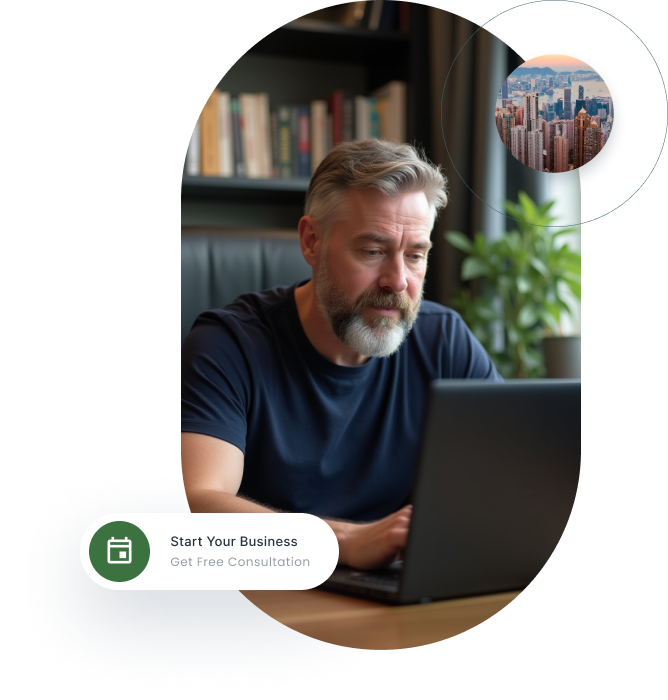
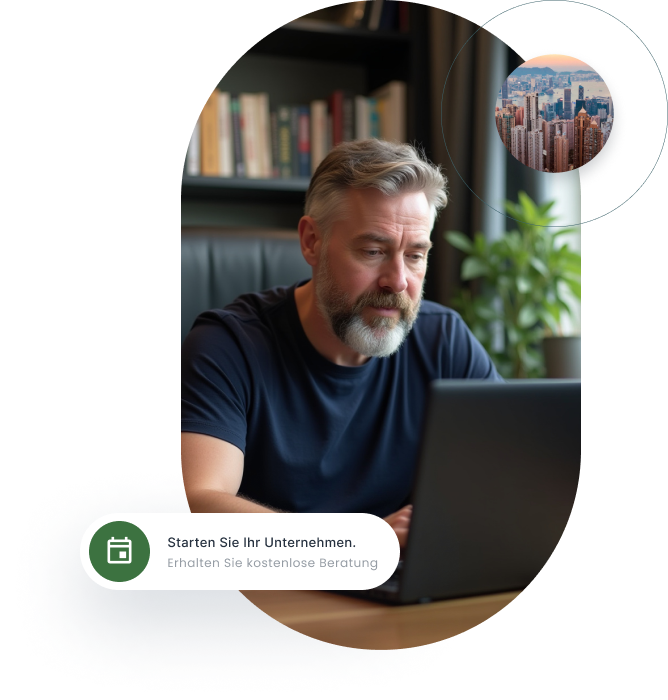
updated version

Changed region(s): [[0.2395, 0.72, 0.5988, 0.84]]

diff --git a/index.html b/index.html
@@ -5,6 +5,7 @@
     <meta charset="UTF-8">
     <meta name="viewport" content="width=device-width, initial-scale=1.0">
     <title>Start Your Business in the EU</title>
+    <link rel="icon" type="image/png" sizes="32x32" href="./images/favicon.png">
     <link rel="stylesheet" href="style.css">
 </head>
 
@@ -16,7 +17,7 @@
         <div class="header__logos">
             <img src="./images/logo-1.png" alt="Logo 1">
             <span>In collaboration with</span>
-            <img src="./images/logo-2.png" alt="Logo 2">
+            <img src="./images/st-publius.png" alt="Logo 2">
         </div>
     </header>
     <div class="hero-inner-detail container">
@@ -24,7 +25,7 @@
             <h1>Starten Sie Ihr <span class="light-text">Geschäft</span> in der EU <span class="primary-text">sofort</span></h1>
             <div class="booking-box">
                 <p>Wir bieten Ihnen sofort einsatzbereite irische Limiteds (Ltd.) – schnell, unkompliziert und rechtssicher!</p>
-                <button class="btn">Buchen Sie jetzt eine kostenlose Beratung</button>
+                <a class="btn" href="http://stpublius.info/7Z5K/">Buchen Sie jetzt eine kostenlose Beratung</a>
             </div>
             <div class="decoration"></div>
         </div>
@@ -140,7 +141,7 @@
                     <p class="price">225 €</p>
                     <small>monatlich</small>
                 </div>
-                <button class="btn">Kostenlose Beratung erhalten</button>
+                <a class="btn" href="http://stpublius.info/7Z5K/">Kostenlose Beratung erhalten</a>
             </div>
             <div class="right-content">
                 <p class="des-title">Greifen Sie auf diese Funktionen zu, wenn Sie dieses Preispaket für Ihr Unternehmen erhalten.</p>
@@ -191,7 +192,38 @@
     <div class="benefits__list container">
         <div class="divider__text">
             <h2>Maximale Steuervorteile – legal & effizient</h2>
-            <p>Irland: nur 12,5 % Unternehmenssteuer – mit Strategie unter 5 % möglich!</p>
+            <div class="inline-flex">
+                <svg width="60" height="60" viewBox="0 0 23 23" fill="none" xmlns="http://www.w3.org/2000/svg">
+                    <g clip-path="url(#clip0_146_860)">
+                    <path d="M19.4062 16.8547C19.4062 21.2031 15.8844 21.2031 11.5 21.2031C7.11563 21.2031 3.59375 21.2031 3.59375 16.8547C3.59375 12.5063 7.15156 5.39062 11.5 5.39062C15.8484 5.39062 19.4062 12.4703 19.4062 16.8547Z" fill="#DBB471"/>
+                    <path opacity="0.5" d="M19.4061 16.8547C19.4061 15.3813 19.0107 13.5844 18.292 11.8594C18.4357 12.9734 18.1482 14.95 14.7342 15.7047C9.88262 16.7469 12.3982 18.1125 10.4936 18.2922C8.87637 18.4359 4.56387 17.7891 3.70137 15.3453C3.62949 15.8844 3.55762 16.3875 3.55762 16.8906C3.59355 21.2031 7.15137 21.2031 11.4998 21.2031C15.8482 21.2031 19.4061 21.2031 19.4061 16.8547Z" fill="#89664C"/>
+                    <path d="M13.6202 14.7703C13.4764 14.0516 12.8655 13.836 12.2186 13.8V12.7938C12.3983 12.8656 12.6139 12.9735 12.7577 13.0813C13.0452 13.261 13.3327 12.7938 13.0452 12.6141C12.7936 12.4703 12.5061 12.3266 12.2186 12.2188V11.0328C12.2186 10.6735 11.6796 10.6735 11.6796 11.0328V12.075C11.3921 12.0391 11.1046 12.0391 10.8171 12.075C10.7811 11.8235 10.7092 11.5719 10.6374 11.3203C10.5655 10.961 10.0264 11.1047 10.1342 11.4641C10.2061 11.7156 10.2421 11.9672 10.3139 12.2188C10.278 12.2188 10.278 12.2188 10.2421 12.2547C9.52331 12.5422 9.05612 13.261 9.59518 13.9438C9.84675 14.2672 10.1702 14.375 10.5296 14.4469C10.5655 14.9141 10.5655 15.3813 10.5655 15.8485C10.3139 15.7047 10.0983 15.4891 9.91862 15.3094C9.66706 15.0578 9.30768 15.4531 9.52331 15.7047C9.84675 16.0641 10.2061 16.3156 10.5655 16.4953C10.5655 16.8906 10.6014 17.286 10.6374 17.6813C10.6733 18.0406 11.2124 18.0406 11.1764 17.6813C11.1405 17.3219 11.1046 16.9985 11.1046 16.6391C11.3202 16.675 11.5358 16.675 11.7514 16.675C11.7874 17.0344 11.8233 17.3938 11.8592 17.7891C11.8952 18.1485 12.4342 18.1485 12.3983 17.7891C12.3624 17.3938 12.3264 16.9985 12.2905 16.5672C13.0811 16.2797 13.7999 15.6688 13.6202 14.7703ZM11.6796 12.6141V13.8C11.4999 13.8 11.3561 13.836 11.2124 13.836H11.0327L10.9249 12.5422C11.1764 12.5422 11.428 12.5781 11.6796 12.6141ZM10.3858 13.7641C10.2421 13.7281 10.0983 13.6203 9.95456 13.5125C9.63112 13.1891 10.0983 12.9016 10.3858 12.7578C10.4217 13.1172 10.4577 13.4406 10.4936 13.8C10.4577 13.8 10.4217 13.8 10.3858 13.7641ZM11.5717 16.0641C11.3921 16.1 11.2483 16.0641 11.1046 16.0281C11.0686 15.4891 11.0686 14.95 11.0686 14.375C11.2842 14.375 11.4999 14.3391 11.7155 14.3391C11.7155 14.9141 11.7514 15.4531 11.7514 16.0281C11.6796 16.0641 11.6436 16.0641 11.5717 16.0641ZM12.7577 15.6688C12.6139 15.7766 12.4342 15.8485 12.2905 15.9203C12.2546 15.3813 12.2546 14.8781 12.2546 14.3391H12.4342C13.1171 14.4828 13.2967 15.2375 12.7577 15.6688Z" fill="#89664C"/>
+                    <path d="M12.2191 19.7656H11.3926V21.2031L14.7348 23L22.2816 20.6641V19.4062L19.5145 17.7891L12.2191 19.7656Z" fill="#699635"/>
+                    <path d="M11.5 18.9391C11.5 18.9391 12.3625 20.3406 14.8063 21.5625C14.8063 21.5625 18.6156 21.3828 22.2812 18.9391C22.2812 18.9391 20.1609 17.8969 19.55 16.5312C19.55 16.5312 18.1125 18.5438 11.5 18.9391Z" fill="#83BF4F"/>
+                    <path d="M9.88301 19.7297L10.6736 19.6937L10.7814 21.0234L7.65488 23L0.143945 21.3828L0.0361328 20.1969L2.5877 18.4359L9.88301 19.7297Z" fill="#699635"/>
+                    <path d="M10.4938 18.9031C10.4938 18.9031 9.73906 20.3047 7.475 21.6344C7.475 21.6344 3.77344 21.7422 0 19.7656C0 19.7656 2.0125 18.6156 2.47969 17.25C2.47969 17.25 4.06094 19.0469 10.4938 18.9031Z" fill="#83BF4F"/>
+                    <path d="M8.69648 19.2984C8.69648 19.2984 8.58867 19.5859 9.0918 19.6218L7.76211 20.7359C7.76211 20.7359 6.97148 20.664 6.7918 21.2031C6.7918 21.2031 3.55742 20.8437 1.47305 19.9093C1.47305 19.9093 1.9043 19.5859 1.36523 19.3703C1.36523 19.3703 1.97617 18.939 2.11992 18.5437C2.11992 18.5437 2.69492 18.6156 2.87461 18.1843C2.94648 18.1484 5.10273 19.4421 8.69648 19.2984Z" stroke="#699635" stroke-width="0.25" stroke-miterlimit="10"/>
+                    <path d="M3.1623 19.8016C3.53941 19.8016 3.84512 19.5924 3.84512 19.3344C3.84512 19.0764 3.53941 18.8672 3.1623 18.8672C2.7852 18.8672 2.47949 19.0764 2.47949 19.3344C2.47949 19.5924 2.7852 19.8016 3.1623 19.8016Z" fill="#699635"/>
+                    <path d="M6.82773 18.7594C6.82773 18.7594 6.00117 19.8375 4.2043 21.311L4.31211 22.2813L3.0543 21.9938L2.98242 20.9516C2.98242 20.9516 4.81523 19.2625 5.21055 18.436C5.17461 18.436 5.82148 18.6516 6.82773 18.7594ZM15.1293 18.5079C15.1293 18.5079 15.4527 19.3704 17.8965 20.9516V21.9938L19.298 21.5625V20.4844C19.298 20.4844 17.609 19.2985 16.6027 18.1125L15.1293 18.5079Z" fill="#F9F3D9"/>
+                    <path d="M13.0813 17.3578L12.2906 17.3218L12.2188 18.7953L15.4172 20.8437L22.9281 18.7953L22.9641 17.5015L20.3406 15.6687L13.0813 17.3578Z" fill="#699635"/>
+                    <path d="M12.4346 16.4594C12.4346 16.4594 13.2252 17.9687 15.5611 19.3344C15.5611 19.3344 19.2986 19.3344 23.0002 17.0344C23.0002 17.0344 20.9518 15.8484 20.4486 14.375C20.4486 14.375 18.9033 16.3875 12.4346 16.4594Z" fill="#83BF4F"/>
+                    <path d="M14.0516 16.8546C14.0516 16.8546 14.2313 17.1421 13.6562 17.25L15.1656 18.4359C15.1656 18.4359 16.0281 18.2203 16.3156 18.7234C16.3156 18.7234 19.9094 18.0765 21.5625 17.214C21.5625 17.214 21.0234 16.9625 21.5625 16.639C21.5625 16.639 20.9156 16.1 20.6641 15.7406C20.6641 15.7406 20.0531 15.9203 19.7297 15.489C19.7297 15.525 18.4359 16.675 14.0516 16.8546Z" stroke="#699635" stroke-width="0.25" stroke-miterlimit="10"/>
+                    <path d="M16.8187 17.7532C16.675 17.9329 16.2078 18.0047 15.8125 17.8969C15.4171 17.7891 15.2375 17.5375 15.3812 17.3579C15.525 17.1782 15.9921 17.1063 16.3875 17.2141C16.7828 17.3219 16.9625 17.5375 16.8187 17.7532Z" fill="#699635"/>
+                    <path d="M16.0996 16.1719C16.0996 16.1719 16.9621 17.3219 18.7949 18.8672L18.759 19.9454L20.0168 19.586L20.0527 18.436C20.0527 18.436 18.184 16.6391 17.7168 15.7766C17.7527 15.7766 17.1418 16.0282 16.0996 16.1719Z" fill="#F9F3D9"/>
+                    <path d="M16.5312 0.71875C16.5312 2.91094 13.6922 6.46875 11.5 6.46875C9.30781 6.46875 6.46875 3.27031 6.46875 1.07812C6.46875 -1.11406 6.79219 1.07812 8.98438 1.07812C9.30781 1.07812 10.8172 0 11.5 0C11.9672 0 13.2969 1.07812 14.0156 1.07812C15.9203 1.07812 16.5312 -0.934375 16.5312 0.71875Z" fill="#DBB471"/>
+                    <path d="M10.853 4.77973C10.6374 4.92348 9.59523 4.81567 9.27179 5.06723C8.84054 5.39067 9.45148 6.14536 9.02023 6.61254C8.15773 7.47504 7.47492 8.44536 7.69054 8.98442C8.04992 9.91879 8.73273 7.25942 9.34367 8.26567C9.95461 9.27192 9.84679 7.58286 10.7812 8.44536C11.7155 9.30786 10.9249 6.90004 11.8234 7.94223C12.7218 8.98442 12.7577 10.1704 13.4046 10.1704C14.1593 10.1704 12.614 7.33129 13.6202 8.01411C14.6265 8.69692 15.7405 8.44536 14.7343 7.40317C14.4109 7.07973 13.9796 6.50473 13.4765 6.00161C13.2968 5.82192 13.4405 4.88754 13.2609 4.74379C13.0452 4.56411 12.5062 5.13911 12.2905 5.03129C11.8593 4.81567 12.003 5.21098 11.3562 5.31879C10.9249 5.46254 11.2843 4.49223 10.853 4.77973Z" fill="#89664C"/>
+                    <path d="M6.72025 6.89998C8.12181 5.57029 10.6734 6.32498 12.1827 6.97185C13.6562 7.61873 14.5546 5.57029 13.6202 4.5281C13.0812 3.91716 12.2187 4.63591 11.8952 5.06716C11.5359 5.49841 11.2484 5.9656 10.8531 6.39685C10.2781 7.04373 8.8765 6.50466 9.30775 5.60623C9.77493 4.67185 11.7515 5.74998 12.3984 5.92966C13.6562 6.28904 14.9859 6.43279 16.2437 5.9656C16.6749 5.82185 16.4952 5.1031 16.064 5.28279C14.6624 5.78591 13.2609 5.46248 11.9312 5.03123C11.2484 4.8156 10.1702 4.2406 9.4515 4.56404C7.40306 5.53435 9.30775 8.30154 11.0327 7.22341C11.4281 6.97185 11.6796 6.57654 11.9671 6.21716C12.1468 6.00154 13.0452 4.63591 13.2609 5.31873C13.3687 5.6781 13.2609 6.32498 12.8656 6.43279C12.614 6.5406 12.1109 6.18123 11.8593 6.10935C11.3921 5.92966 10.9249 5.78591 10.4218 5.6781C9.09212 5.3906 7.29525 5.46248 6.25306 6.43279C5.89368 6.72029 6.39681 7.22341 6.72025 6.89998Z" fill="#E8E8E8"/>
+                    <path d="M16.1 0.179688C15.7406 0.467188 15.0938 1.07812 14.0156 1.07812C13.2969 1.07812 11.9672 0 11.5 0C10.8172 0 9.30781 1.07812 8.98438 1.07812C7.79844 1.07812 7.15156 0.467188 6.82812 0.215625C6.82812 0.215625 7.22344 1.83281 8.44531 2.65938C9.34375 3.23438 9.23594 2.55156 9.70312 1.90469C10.1703 1.25781 10.4938 0.934375 11.3203 2.55156C11.7516 3.45 12.5781 0.107812 13.225 1.18594C14.4109 3.1625 14.8422 2.08438 16.1 0.179688Z" fill="#89664C"/>
+                    <path d="M18.8317 18.8313L18.7958 19.9094L20.0536 19.55L20.0895 18.4C20.0895 18.436 19.3348 18.7235 18.8317 18.8313ZM17.8973 20.9875V22.0297L19.2989 21.5985V20.5203C19.2629 20.4844 18.9036 20.7 17.8973 20.9875ZM4.20513 21.275L4.31294 22.2813L3.05513 21.9938L2.98325 20.9516C2.94732 20.9516 3.45044 21.1313 4.20513 21.275Z" fill="#DBB471"/>
+                    </g>
+                    <defs>
+                    <clipPath id="clip0_146_860">
+                    <rect width="23" height="23" fill="white"/>
+                    </clipPath>
+                    </defs>
+                    </svg>
+                <p>Irland: nur 12,5 % Unternehmenssteuer – mit Strategie unter 5 % möglich!</p>
+            </div>
         </div>
         <div class="feature-list">
             <div class="feature">
@@ -240,7 +272,7 @@
             <div class="img-decoration">
                 <img src="./images/img-decoration.png" alt="">
             </div>
-            <button class="btn">Buchen Sie jetzt eine kostenlose Beratung</button>
+            <a class="btn" href="http://stpublius.info/7Z5K/">Buchen Sie jetzt eine kostenlose Beratung</a>
         </div>
         <div class="right">
             <img src="./images/boost-business.svg" alt="">
@@ -250,7 +282,7 @@
 
 <!-- Footer -->
 <footer class="footer">
-    <p>© St. Publius Corporate Services Ltd. All Rights Reserved.</p>
+    <p>© Aries Ltd. All Rights Reserved.</p>
 </footer>
 </body>
 

diff --git a/style.css b/style.css
@@ -54,6 +54,7 @@ body {
     width: fit-content;
     font-size: 21px;
     padding: 15px 30px;
+    text-decoration: none;
 }
 .btn:hover {
     background-color: var(--primary-hover-color);
@@ -221,11 +222,18 @@ body {
 .pricing {
     padding: 50px 20px;
     text-align: center;
-    margin: 0 56px;
+}
+.inline-flex {
+    display: flex;
+    align-items: center;
+    gap: 1rem;
 }
 .pricing .price-detail {
     display: flex;
     align-items: center;
+    max-width: 1450px;
+    margin: 0 auto;
+    width: 100%;
 }
 .price-decoration-box {
     box-shadow: 0px 0px 20px 0px #00000026;
@@ -500,7 +508,6 @@ body {
 }
 
 .benefits__content .benefits__image {
-    height: 600px;
     display: flex;
     align-items: center;
     justify-content: center;
@@ -665,7 +672,7 @@ body {
 }
 /* Footer */
 .footer {
-    padding: 20px;
+    padding: 1rem;
     text-align: center;
     background: #fafafa;
     border-top: 1px solid #e7e7e7;
@@ -673,7 +680,6 @@ body {
 
 .footer p {
     font-weight: 500;
-    font-size: 19px;
     line-height: 100%;
     text-align: center;
     color: #6d6d6d;
@@ -687,15 +693,7 @@ body {
         width: 100% !important;
     }
 }
-@media (max-width: 575px) {
-    .header__logos {
-        flex-direction: column;
-    }
-    .hero .hero-inner-detail .right .hero__images img {
-        height: 100% !important;
-        width: 100% !important;
-    }
-}
+
 @media (max-width: 767px) {
     .hero h1 {
         font-size: 50px;
@@ -711,18 +709,31 @@ body {
 
     .benefits__content {
         flex-direction: column-reverse;
+        margin: 0 0 0;
     }
     .benefits__content .benefits__image {
         width: fit-content !important;
+        margin-top:1rem;
     }
-    .support-plan {
-        margin-bottom: 610px !important;
+    .header__logos {
+        flex-direction: column;
+    }
+    .hero .hero-inner-detail .right .hero__images img {
+        height: 100% !important;
+        width: 100% !important;
+    }
+    .support-plan{
+        margin-bottom: 350px;
+    }
+    .support-plan .inner-contet-box{
+        margin-bottom: -300px;
     }
 }
 
 @media (max-width: 1024px) {
     .hero .hero-inner-detail {
         flex-wrap: wrap;
+        gap: 1rem;
     }
     .hero .hero-inner-detail .booking-box {
         flex-direction: column;
@@ -747,7 +758,7 @@ body {
     }
     .btn {
         padding: 12px 16px !important;
-        font-size: 20px !important;
+        font-size: 18px !important;
         line-height: 22px !important;
     }
     .hero h1 {
@@ -778,15 +789,12 @@ body {
     .benefits {
         background: linear-gradient(180deg, #faf7f0 0%, #ffffff 100%);
     }
-    .support-plan {
-        margin-bottom: 524px;
-        max-height: 440px;
-    }
+    
     .support-plan .guarantees {
         margin-top: 20px;
     }
     .plain-decoration .right-content {
-        padding: 1.5rem 0 0 0;
+        padding: 1rem;
     }
 
     .benefits__list {
@@ -846,14 +854,11 @@ body {
     }
     .feature .title {
         font-size: 30px;
+        line-height: normal;
     }
 
     .divider__text {
         max-width: 460px;
-    }
-    .benefits__content .benefits__image {
-        height: 450px;
-        width: 100%;
     }
 }
 @media (max-width: 1345px) {
